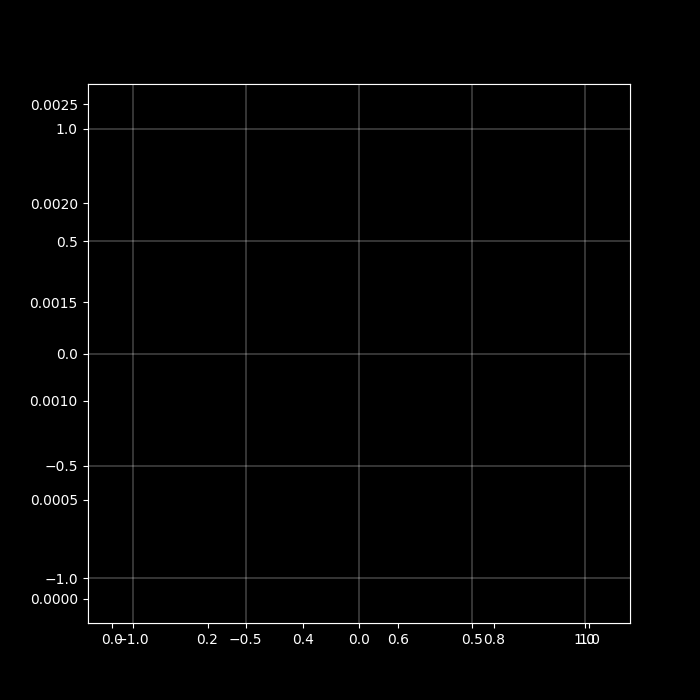
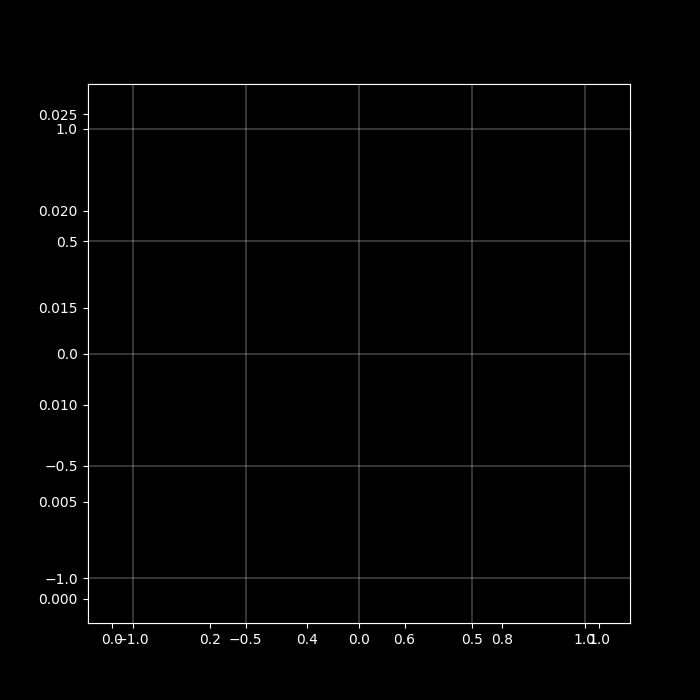
still trying to fix calculation issue

diff --git a/circular_orbit.py b/circular_orbit.py
@@ -1,4 +1,6 @@
 # simple circular orbit using Euler-Cromer method
+# phi should probably be called phi here
+# when i say circular coordinates i really mean polar coordinates
 
 import numpy as np
 import matplotlib.pyplot as plt
@@ -7,15 +9,15 @@ from dataclasses import dataclass
 
 # constants
 step = 0.002  # in yrs
-iterations = 10  # test
+iterations = 2  # test
 earth_to_sun = 1.00  # in AU; in km it's 91.607
-pi = np.pi  # for simplicity
+pi = np.pi  # for simplicity; in radians
 
 
 @dataclass
 class Point:  # we're using spherical coordinates, boys
     r: float  # range [0, 1] in AU
-    theta: float  # can be [0, 2pi] -- anywhere on the unit circle
+    phi: float  # can be [0, 2pi] -- anywhere on the unit circle
 
 
 class Vector(Point):
@@ -35,34 +37,46 @@ class Planet:
 
     def update(self):  # Euler-Cromer method
         r = self.pos.r  # for convenience
-        theta = self.pos.theta
-        r_dot = self.vel.r
-        theta_dot = self.vel.theta
+        phi = self.pos.phi
+        r_dot = self.vel.r  # r-component of polar coordinates velocity
+        print('r_dot: {}'.format(r_dot))
+        phi_dot = self.vel.phi
         delta_t = self.delta_t
         factor = 4 * (pi ** 2) / (r ** 3)
         print("Factor: {}".format(factor))  # test
         # Cartesian position components
-        x = r * np.cos(theta)
-        y = theta * np.sin(theta)
+        x = r * np.cos(phi)
+        print("x: {}".format(x))  # test
+        y = r * np.sin(phi)
+        print('y: {}'.format(y))  # test
         # Cartesian velocity components
-        vx = r * theta_dot * np.sin(theta) + r_dot * np.cos(theta)  # x component
-        vy = r * theta_dot * np.cos(theta) + r_dot * np.sin(theta)
+        # TODO: Figure out why this line is resulting in a positive number on the first step!
+        vx = (r_dot * np.cos(phi)) - (r * phi_dot * np.sin(phi))  # x component; first term cancels on first step
+        # vx = r * np.sin(phi_dot)  # don't think this test line works
+        print('first term of vx: {}'.format(r_dot * np.cos(phi)))
+        print('second term of vx: {}'.format(r * phi_dot * np.sin(phi)))
+        print('vx: {}'.format(vx))  # test
+        vy = (r * phi_dot * np.cos(phi)) + (r_dot * np.sin(phi))  # y component; km/s
+        print('vy: {}'.format(vy))  # test
 
         # compute updated Cartesian velocity components
-        vx_new = vx - factor * x * delta_t
-        vy_new = vy - factor * y * delta_t
+        vx_new = vx - (factor * x * delta_t)
+        vy_new = vy - (factor * y * delta_t)
 
         # calculate updated Cartesian position components
-        x_new = x + vx_new * delta_t
-        y_new = y + vy_new * delta_t
+        x_new = x + (vx_new * delta_t)
+        print('x_new: {}'.format(x_new))  # test
+        y_new = y + (vy_new * delta_t)
+        print('y_new: {}'.format(y_new))  # test
 
         # update position
-        self.pos.r = (x_new ** 2 + y_new ** 2) ** (1 / 2)
-        self.pos.theta = theta + (theta_dot * delta_t)
+        self.pos.r = ((x_new ** 2) + (y_new ** 2)) ** (1 / 2)
+        # self.pos.phi = phi + (phi_dot * delta_t)  # not sure about this
+        self.pos.phi = np.arctan2(y_new, x_new)  # see Wikipedia page on polar coordinates
 
         # update velocity (still circular coordinates)
-        self.vel.r = (vx_new ** 2 + vy_new ** 2) ** (1 / 2)  # r_dot
-        # not updating self.vel.theta because it is constant and independent of x and y right now
+        self.vel.r = ((vx_new ** 2) + (vy_new ** 2)) ** (1 / 2)  # r_dot
+        # not updating self.vel.phi because it is constant and independent of x and y right now
         # TODO: Check this whole method and find equations of motion
 
         return x_new, y_new
@@ -75,16 +89,27 @@ def main():
 
     # initialize the Earth
     earth_init_pos = Point(1.0, 0)  # remember this is in circular coordinates
-    earth_init_vel = Vector(0.0, 1.0)  # no radial velocity right now; only angular
+    earth_init_vel = Vector(0.0, 2 * pi)  # no radial velocity right now; only angular in rad/s
     earth = Planet(earth_init_pos, earth_init_vel, step)
 
     xdata = []
     ydata = []
+    times = []
 
+    t = 0  # initialize time
     for i in range(iterations):
         x, y = earth.update()
         xdata.append(x)
         ydata.append(y)
+        times.append(t)
+        t += step
+
+    # test
+    plt.style.use('dark_background')
+    fig, ax = plt.subplots(figsize=(7, 7))
+    ax.plot(times, xdata)
+    ax.plot(times, ydata)
+    plt.show()
 
     # now animate
     plt.style.use('dark_background')

diff --git a/earth_sun.py b/earth_sun.py
@@ -118,14 +118,14 @@ if __name__ == '__main__':
     sun = ax.plot(sun.pos.x, sun.pos.y, 'X', markersize=30, color='yellow')
     # ax.plot(x, y, 'g-')
     plt.grid(True, lw=0.3)  # plot grid
-    plt.savefig('earth_sun.png')
+    plt.savefig('output/earth_sun.png')
 
     def animate(i):
         earth.set_data(r[i] * np.cos(x[i]), r[i] * np.sin(y[i]))
         return earth
 
     animation = FuncAnimation(fig, animate, frames=len(x), interval=200, repeat=True)
-    animation.save('earth_sun.gif', writer='pillow')  # mp4 doesn't work
+    animation.save('output/earth_sun.gif', writer='pillow')  # mp4 doesn't work
     plt.show()
 
 
